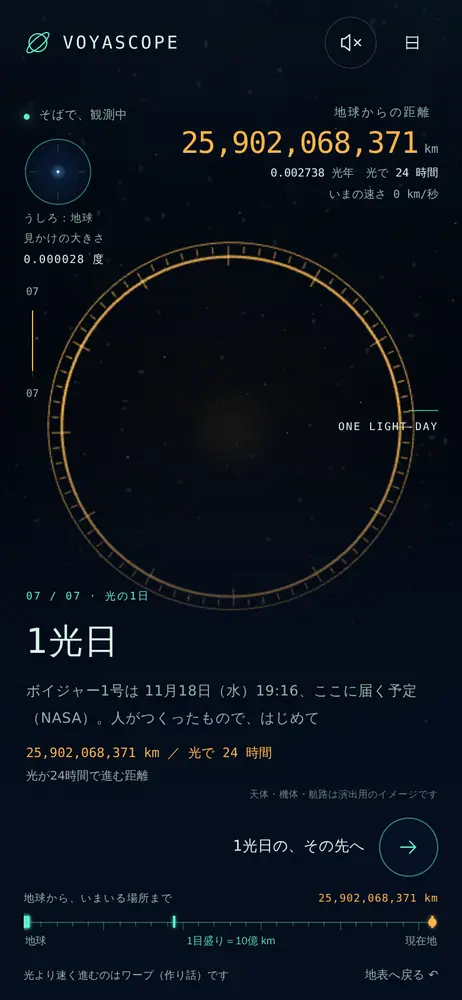
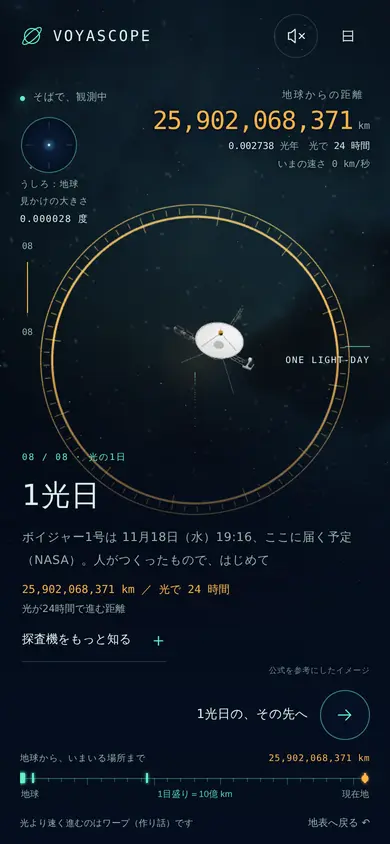
遠くを見る部屋：1光日の輪の手前にボイジャー1号を置いた（11/18 にここへ届く予定。NASA の予告）
- いまの距離の公式の値はまだない（JPL の許可待ち）ので、NASA の予告「2026-11-18 19:16（日本時間）に地球から1光日」をもとに輪のそばに置いた
- 模型は Codex の far-room-models.js のボイジャー（公式を参考にしたイメージ）。アンテナを地球に向け、回さない
- 「探査機をもっと知る」で、ボイジャー1号のカードを出す（curation/probes/voyager-1.json と curation/events/voyager-1-one-light-day.json から写した）
- ボイジャー2号は、いまの距離が分かるまで置かない
- 確かめたこと：スマホ 390×844・タブレット 768×1024・PC 1440×900 で1光日とカード。エラーなし
- 写真：merged-sp-6-light-day を差し替え、merged-pc-4-voyager を追加。far-room-feel.md §7-7、ロードマップ

Claude-Session: https://claude.ai/code/session_018QcvrPpxiBmPj3b7sKfVgy

diff --git a/docs/design/far-room-visual-merged.html b/docs/design/far-room-visual-merged.html
@@ -416,6 +416,7 @@ dialog .sub { margin: 0 0 14px; font-size: 12px; color: var(--dim); }
           <li>探査機の模型は、公式のページの写真と説明を参考に Codex が作ったもの（far-room-models.js、2026-10-04）。画面の注記は「公式を参考にしたイメージ」だけ（2026-10-04 オーナー）</li>
           <li>光と質感：太陽の光らしい白い主光で、模型に影ができる。宇宙の暗さに合わせて、映り込みを少し控えた。火星の地面には、ローバーの影が落ちる</li>
           <li>ジュノー：木星の重力でスイングバイ。機体は、本当の速さ（1分に2回）で回っている</li>
+          <li>1光日の輪の手前に、ボイジャー1号（11月18日にここへ届く予定。NASA の予告）。いまの距離の公式の値はまだないので、輪のそばに置いた（2026-10-04）。ボイジャー2号は、いまの距離が分かるまで置かない</li>
           <li>「探査機をもっと知る」は VOYASCOPE のカード（出典つき）だけで書いた。Codex 案の詳しい説明は、出典をまだ確かめていないので使っていない</li>
           <li>太陽・水星・火星は、地球からの距離の桁がほぼ同じ（1.5億〜2.5億 km）。スイングバイが重ならないように、そこだけ航路をゆっくり進む</li>
           <li>動きを減らす設定：星を流さず、傾けず、押した場所へすぐ移る</li>
@@ -505,6 +506,8 @@ const JPL_PERS = "https://www.jpl.nasa.gov/images/pia26726-nasas-hirise-captures
 const NASA_PERS = "https://science.nasa.gov/mission/mars-2020-perseverance/";
 const NASA_JUNO = "https://science.nasa.gov/mission/juno/";
 const NASA_THEBE = "https://science.nasa.gov/photojournal/nasas-juno-misson-captures-jupiter-moon-thebe/";
+const NASA_V1 = "https://science.nasa.gov/mission/voyager/voyager-1/";
+const NASA_VWHERE = "https://science.nasa.gov/mission/voyager/where-are-voyager-1-and-voyager-2-now/";
 const NASA_NH = "https://science.nasa.gov/mission/new-horizons/";
 const NASA_NH_WAKE = "https://science.nasa.gov/missions/new-horizons/nasas-new-horizons-spacecraft-wakes-from-hibernation-in-good-health/";
 const CARDS = {
@@ -553,6 +556,20 @@ const CARDS = {
     ],
     links: [["NASA「Juno」", NASA_JUNO], ["NASA の画像と説明（2026年5月5日）", NASA_THEBE]],
   },
+  "light-day": {
+    title: "ボイジャー1号",
+    en: "Voyager 1",
+    sub: "Voyager 1　・　2026年11月18日（水）19:16（日本時間）に、地球から1光日に届く予定（NASA）",
+    facts: [
+      ["いま", "太陽圏の外の「恒星間空間」を飛んでいる。人がつくったもので、いちばん遠くにある", NASA_V1],
+      ["予定", "2026年11月18日（水）19:16（日本時間）、地球から1光日（約259億 km）に届く。人がつくったもので、ここまで届くのは初めて", NASA_VWHERE],
+      ["任務", "木星と土星を調べるために打ち上げられ、2012年8月に恒星間空間に入った。いまもデータを送っている", NASA_V1],
+      ["状態", "運用中。電力を節約するため、観測装置を少しずつ止めながら運用している（2026年4月17日に1台止めた）（10月3日に確認）", NASA_VWHERE],
+      ["運用", "NASA・JPL", NASA_V1],
+      ["打ち上げ", "1977年9月5日", NASA_V1],
+    ],
+    links: [["NASA「Voyager 1」", NASA_V1], ["NASA「Where Are Voyager 1 and Voyager 2 Now?」", NASA_VWHERE]],
+  },
   "new-horizons": {
     en: "New Horizons",
     facts: [
@@ -576,7 +593,8 @@ const LOOK = {
   perseverance: { kind: "body", body: "mars", R: 2.4, kq: 3.0, turn: 76, tilt: -10, bank: 1, size: 1, swing: "gravity", by: "火星", lens: true, en: "PERSEVERANCE" },
   juno: { kind: "duo", body: "jupiter", model: "juno", R: 3.0, mR: 1.75, kq: 2.6, turn: 66, tilt: 10, bank: 1, size: 1, swing: "gravity", by: "木星", rpm: 2, en: "JUNO" }, // rpm：1分に2回まわる（NASA のジュノーのページ）
   "new-horizons": { kind: "model", model: "new-horizons", R: 1.5, kq: 2.7, turn: 32, tilt: 12, bank: 0.5, size: 0.72, swing: "around", en: "NEW HORIZONS" },
-  "light-day": { kind: "gate", R: 7, size: 1, swing: "gate", en: "ONE LIGHT-DAY" },
+  // 1光日の輪の手前にボイジャー1号（11月18日にここへ届く予定。NASA の予告）。アンテナを地球（こちら）に向け、回さない
+  "light-day": { kind: "gate", R: 7, size: 1, swing: "gate", model: "voyager", mR: 2.0, mOff: [1.3, 1.2, 5.0], mPose: [0.9, -0.6, -0.1], still: true, en: "ONE LIGHT-DAY" },
 };
 // その場所へ向かうときの言葉（Codex 案）
 const TRAVEL = {
@@ -1638,7 +1656,7 @@ if (renderer) {
   // 探査機の模型（Codex が作った9つのうち、航路にいる4機。公式を参考にしたイメージ）
   kit = CRAFT.makeKit(THREE);
   naturalKit(kit);
-  for (const id of ["jwst", "bepicolombo", "juno", "new-horizons"]) models[id] = CRAFT.MODELS[id](THREE, kit);
+  for (const id of ["jwst", "bepicolombo", "juno", "new-horizons", "voyager"]) models[id] = CRAFT.MODELS[id](THREE, kit);
   // 光：太陽の光らしい白い主光（影をつくる）と、弱い補助光。補助光はカメラについて回り、主光も「カメラから見て左上の前」の向きを保つ。
   // 主光の影は、見ている模型のまわりだけを測る（render で毎回置き直す）
   camera.add(new THREE.AmbientLight(0xc9d6e6, 0.12));
@@ -1755,9 +1773,10 @@ function placeScene() {
     if (lk.model) {
       const holder = models[lk.model].userData.holder ?? (models[lk.model].userData.holder = (() => { const h = holdModel(models[lk.model], lk.mR ?? lk.R); mainScene.add(h); return h; })());
       holder.position.copy(st.focus);
+      if (lk.mOff) holder.position.addScaledVector(st.right, lk.mOff[0]).addScaledVector(st.axis, lk.mOff[1]).addScaledVector(st.dirIn, -lk.mOff[2]); // 右・上・手前へずらす
       const inner = holder.userData.inner;
       inner.userData.spin = inner.userData.spin ?? 0;
-      holder.quaternion.copy(q).multiply(new THREE.Quaternion().setFromEuler(e.set(...inner.userData.pose)));
+      holder.quaternion.copy(q).multiply(new THREE.Quaternion().setFromEuler(e.set(...(lk.mPose ?? inner.userData.pose))));
       st.model = holder; st.objects.push(holder);
     }
     if (lk.kind === "gate") {
@@ -1880,8 +1899,8 @@ $("details").addEventListener("click", () => {
   const m = modeNow(), id = m.st?.pl.id, card = CARDS[id];
   if (!card) return;
   const pl = m.st.pl;
-  $("detail-title").textContent = pl.name;
-  $("detail-sub").textContent = `${card.en}　・　地球から${pl.approx ? "約" : ""}${kmJa(pl.km, pl.approx ? 2 : 3)}（${pl.how}）`;
+  $("detail-title").textContent = card.title ?? pl.name;
+  $("detail-sub").textContent = card.sub ?? `${card.en}　・　地球から${pl.approx ? "約" : ""}${kmJa(pl.km, pl.approx ? 2 : 3)}（${pl.how}）`;
   $("detail-facts").innerHTML = card.facts.map(([k, val, src]) => `<div class="fact"><dt>${esc(k)}</dt><dd>${esc(val)}<br><a class="src" href="${esc(src)}" target="_blank" rel="noopener noreferrer">出典 ↗</a></dd></div>`).join("");
   $("detail-links").innerHTML = card.links.map(([label, url]) => `<li><a href="${esc(url)}" target="_blank" rel="noopener noreferrer">${esc(label)} ↗</a></li>`).join("");
   $("detail-dialog").showModal();
@@ -2288,7 +2307,7 @@ function render(now, dt, p, km, warp, m) {
       // ジュノーは本体の軸のまわりを、本当の速さ（1分に2回）で回る。ほかの機体は、ゆっくり向きを変えるだけ
       const inner = st.model.userData.inner;
       if (st.lk.rpm) inner.children[0].rotation.y += (dt * st.lk.rpm * Math.PI * 2) / 60;
-      else inner.rotation.y += dt * 0.05;
+      else if (!st.lk.still) inner.rotation.y += dt * 0.05;
     }
     if (st.lk.kind === "gate") { gate.userData.halo.quaternion.copy(camera.quaternion).premultiply(tmpQ.copy(gate.quaternion).invert()); }
     if (st.pl.id === "new-horizons") dust.material.uniforms.uAlpha.value = 0.55 * smooth01((60 - dist) / 30);
